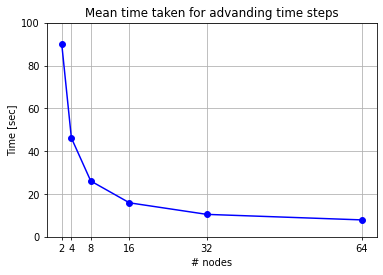
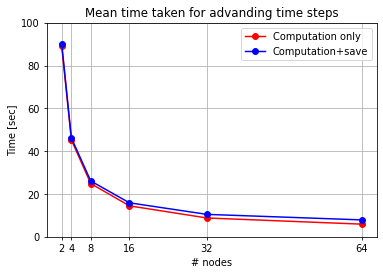
update figure&code

diff --git a/analysis.py b/analysis.py
@@ -90,7 +90,7 @@ print(time_sec.mean)
 # plt.title('Mean normalized spd')
 # plt.subplot(132)
 plt.plot(num_nodes,mean_time_sec,'bo-')
-# plt.plot(num_nodes,mean_time_sec_comp,'ro-')
+plt.plot(num_nodes,mean_time_sec_comp,'ro-')
 plt.xticks(num_nodes)
 plt.yticks(range(0,120,20))
 plt.ylim(0,100)
